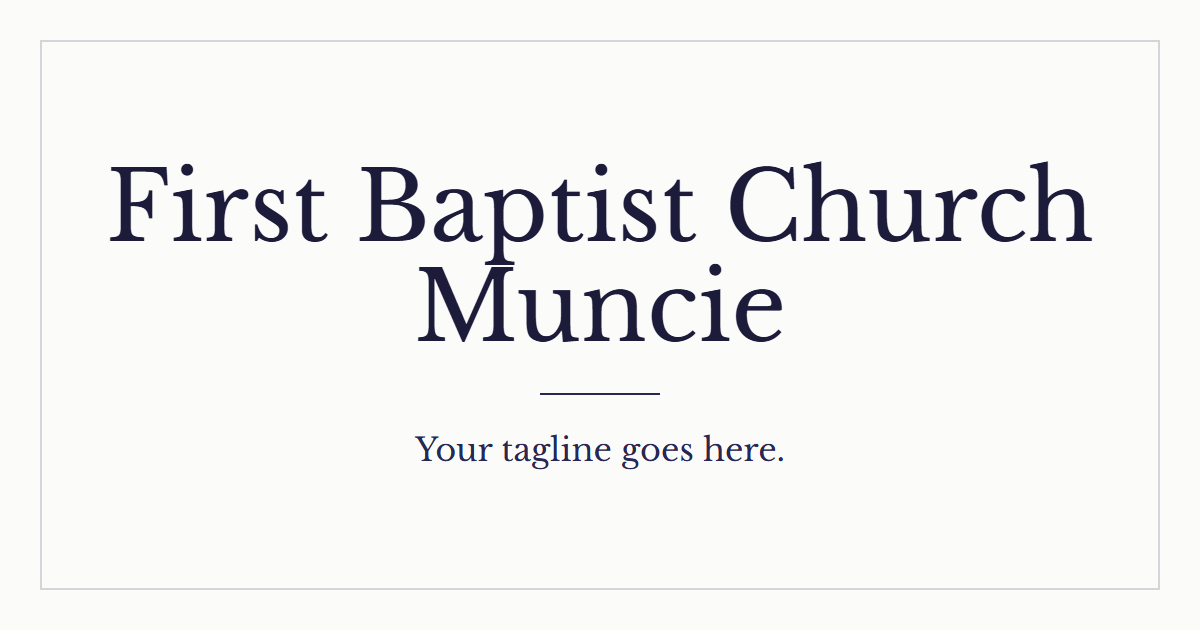
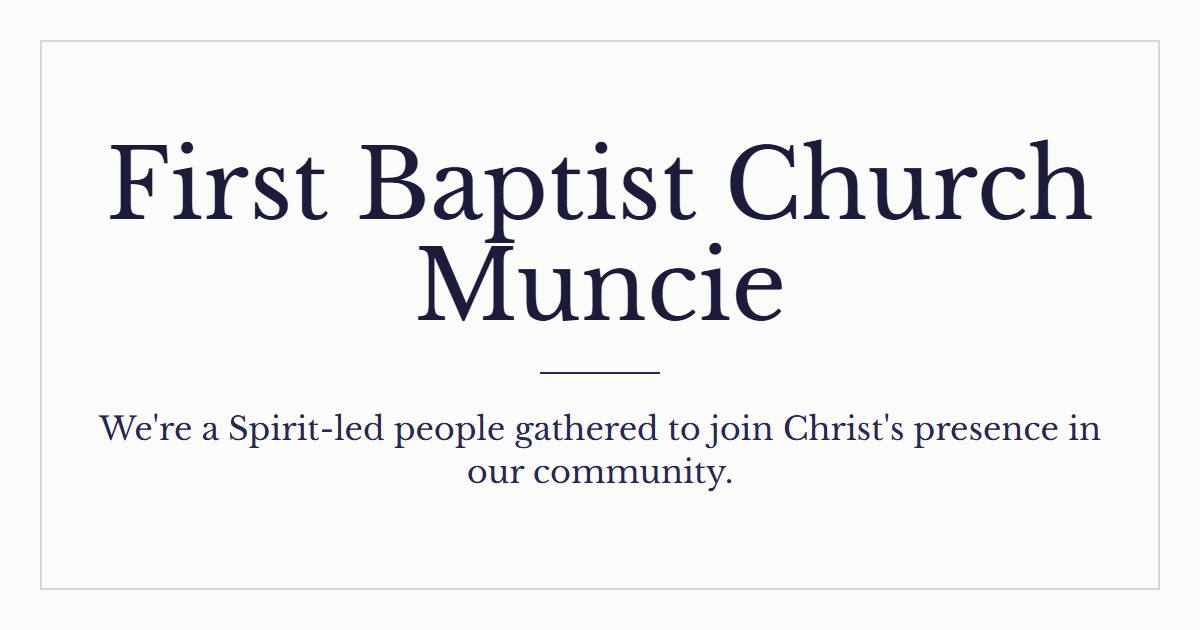
Fix the head: og:image 404, "Studio Journal", the tagline and the em-dash
Five things a visitor or a scraper sees on every page.

og:image pointed at /og/<route>.png on every page, and public/og/ was
deleted as another client's residue, so the site advertised a 404 image.
That is worse than no card: a social scraper shows a broken preview rather
than falling back. BaseLayout now checks what is actually on disk with
import.meta.glob and uses /og-default.png when there is no per-route card.
Posts keep resolving their own Sanity CDN image.

The post title suffix said "Studio Journal" on all 142 titles, og:title,
twitter:title and og:image:alt. The section is called Blog here; the route
is /blog.

brandSuffix joined every <title> with an em-dash, which rule 2 bans in site
copy. Now " | ".

The tagline was still "Your tagline goes here." in brand.config.json, in
site.webmanifest, and as the fallback in two components. It is now the
church's own words from the capture. apply-brand was run, and it clobbered
astro.config.mjs's `site:` to the bare apex as PENDING warns it does, so
that was put back to https://www.fbcmuncie.org by hand.

package.json name: fbcm.

diff --git a/src/components/MobileNav.tsx b/src/components/MobileNav.tsx
@@ -100,7 +100,9 @@ export default function MobileNav({
 }: Props) {
   const [open, setOpen] = useState(false);
 
-  const tagline = siteSettings?.tagline ?? 'Your tagline goes here.';
+  const tagline =
+    siteSettings?.tagline ??
+    "We're a Spirit-led people gathered to join Christ's presence in our community.";
   const email = siteSettings?.email;
   const phone = siteSettings?.phone;
   const ig = siteSettings?.socialInstagram;
